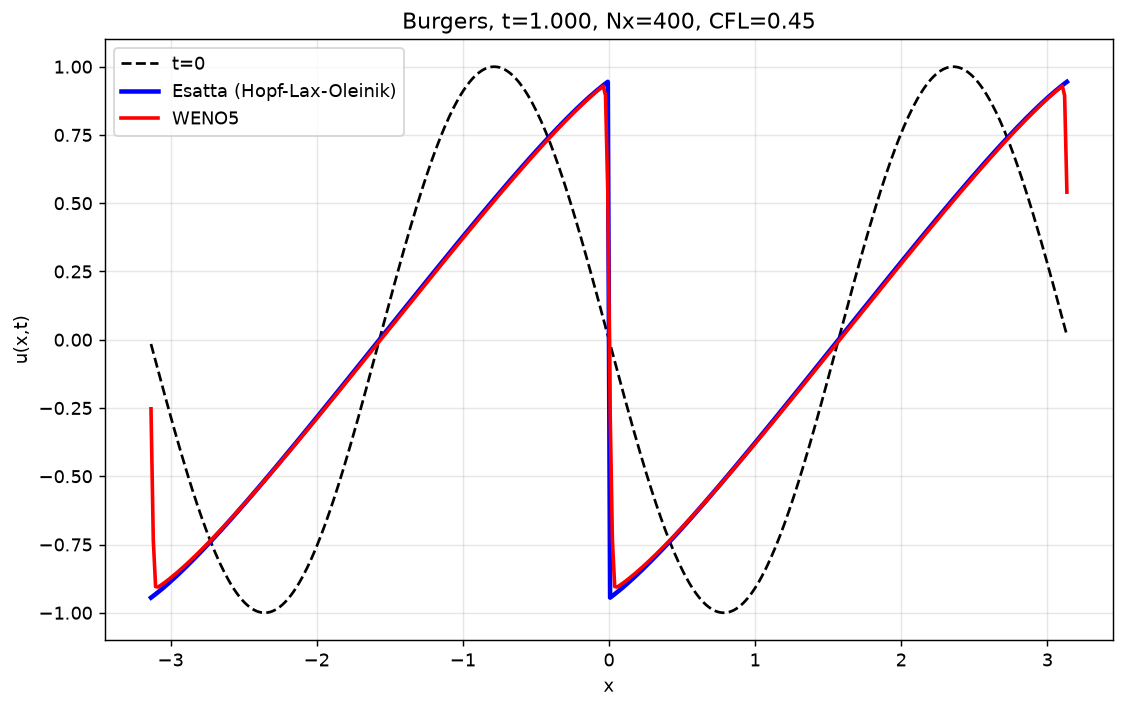
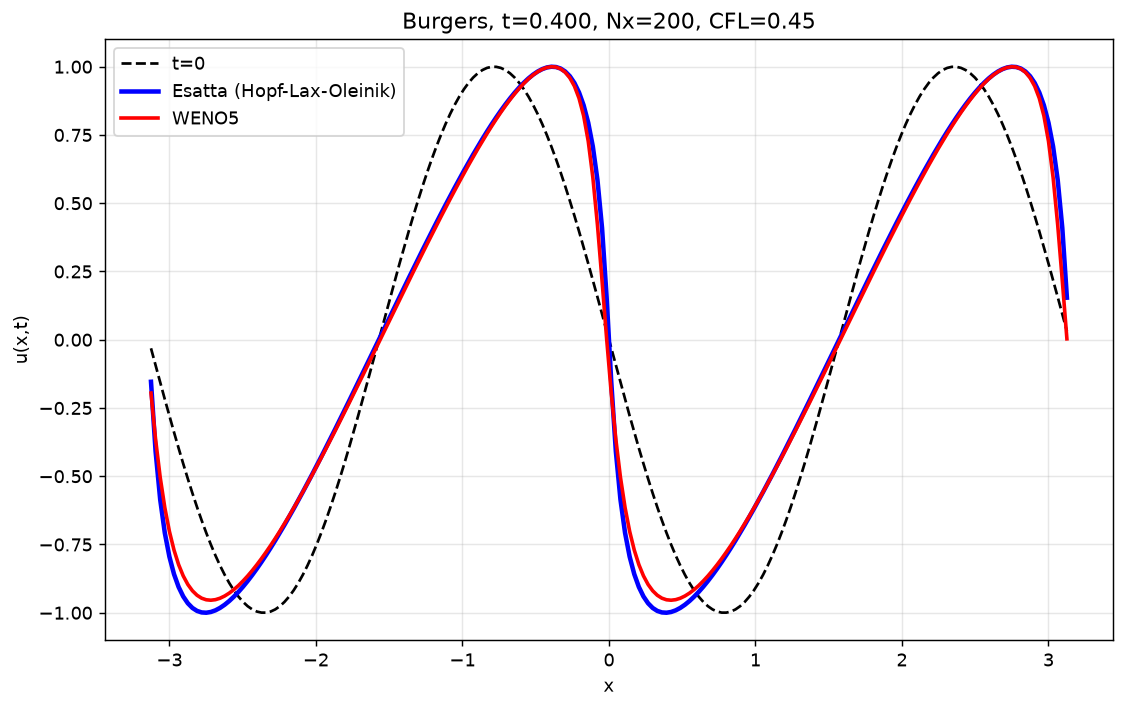
README: nota sul notebook originale (vecchia formula) e sui test; script: stampa distinta di errore medio ed errore L1 relativo; listato LaTeX risincronizzato con il codice e PDF ricompilato (34 pp)

diff --git a/relazione/relazione.tex b/relazione/relazione.tex
@@ -1228,10 +1228,13 @@ def main():
     u_ini = u0(x)
     u_exact = exact_solution(u0, x, args.t, args.nx_exact, EXT_FACTOR)
     u_weno = solve_weno(u_ini, dx, args.t, args.cfl)
-    err = np.sum(np.abs(u_weno - u_exact)) * dx / (XMAX - XMIN)
+    diff = np.abs(u_weno - u_exact)
+    err_medio = float(diff.mean())
+    err_l1_rel = float(diff.sum() / np.abs(u_exact).sum())
 
     print(f"Nx={args.nx}  CFL={args.cfl}  T={args.t}")
-    print(f"errore L1 relativo (WENO5 vs esatta) = {err:.6e}")
+    print(f"errore medio |u_num - u_esatta|  = {err_medio:.6e}")
+    print(f"errore L1 relativo (vs ||u_esatta||_1) = {err_l1_rel:.6e}")
 
     plt.figure(figsize=(10, 6))
     plt.plot(x, u_ini, 'k--', linewidth=1.5, label='t=0')

diff --git a/codice/burgers_weno.py b/codice/burgers_weno.py
@@ -297,10 +297,13 @@ def main():
     u_ini = u0(x)
     u_exact = exact_solution(u0, x, args.t, args.nx_exact, EXT_FACTOR)
     u_weno = solve_weno(u_ini, dx, args.t, args.cfl)
-    err = np.sum(np.abs(u_weno - u_exact)) * dx / (XMAX - XMIN)
+    diff = np.abs(u_weno - u_exact)
+    err_medio = float(diff.mean())
+    err_l1_rel = float(diff.sum() / np.abs(u_exact).sum())
 
     print(f"Nx={args.nx}  CFL={args.cfl}  T={args.t}")
-    print(f"errore L1 relativo (WENO5 vs esatta) = {err:.6e}")
+    print(f"errore medio |u_num - u_esatta|  = {err_medio:.6e}")
+    print(f"errore L1 relativo (vs ||u_esatta||_1) = {err_l1_rel:.6e}")
 
     plt.figure(figsize=(10, 6))
     plt.plot(x, u_ini, 'k--', linewidth=1.5, label='t=0')

diff --git a/README.md b/README.md
@@ -108,6 +108,14 @@ Il notebook originale del progetto è in `codice/burgers_weno.ipynb`, mentre
 selezionabile) che l'applicazione web mostra e permette di modificare nel
 pannello "Algoritmo".
 
+> **Nota.** Il notebook è l'artefatto originale del progetto e contiene ancora
+> la *vecchia* funzione `exact_burgers` (selezione con il minimo di `u₀`): a
+> `T = 0.4`, che è il valore di default, gli urti non si sono ancora formati e
+> il risultato coincide con quello corretto, quindi i grafici del notebook
+> restano validi. L'implementazione corretta è in `codice/burgers_weno.py`
+> (`exact_solution`); la vecchia regola è conservata lì dentro come
+> `old_min_rule`, solo per il confronto fatto dai test.
+
 ### Test
 
 ```bash
